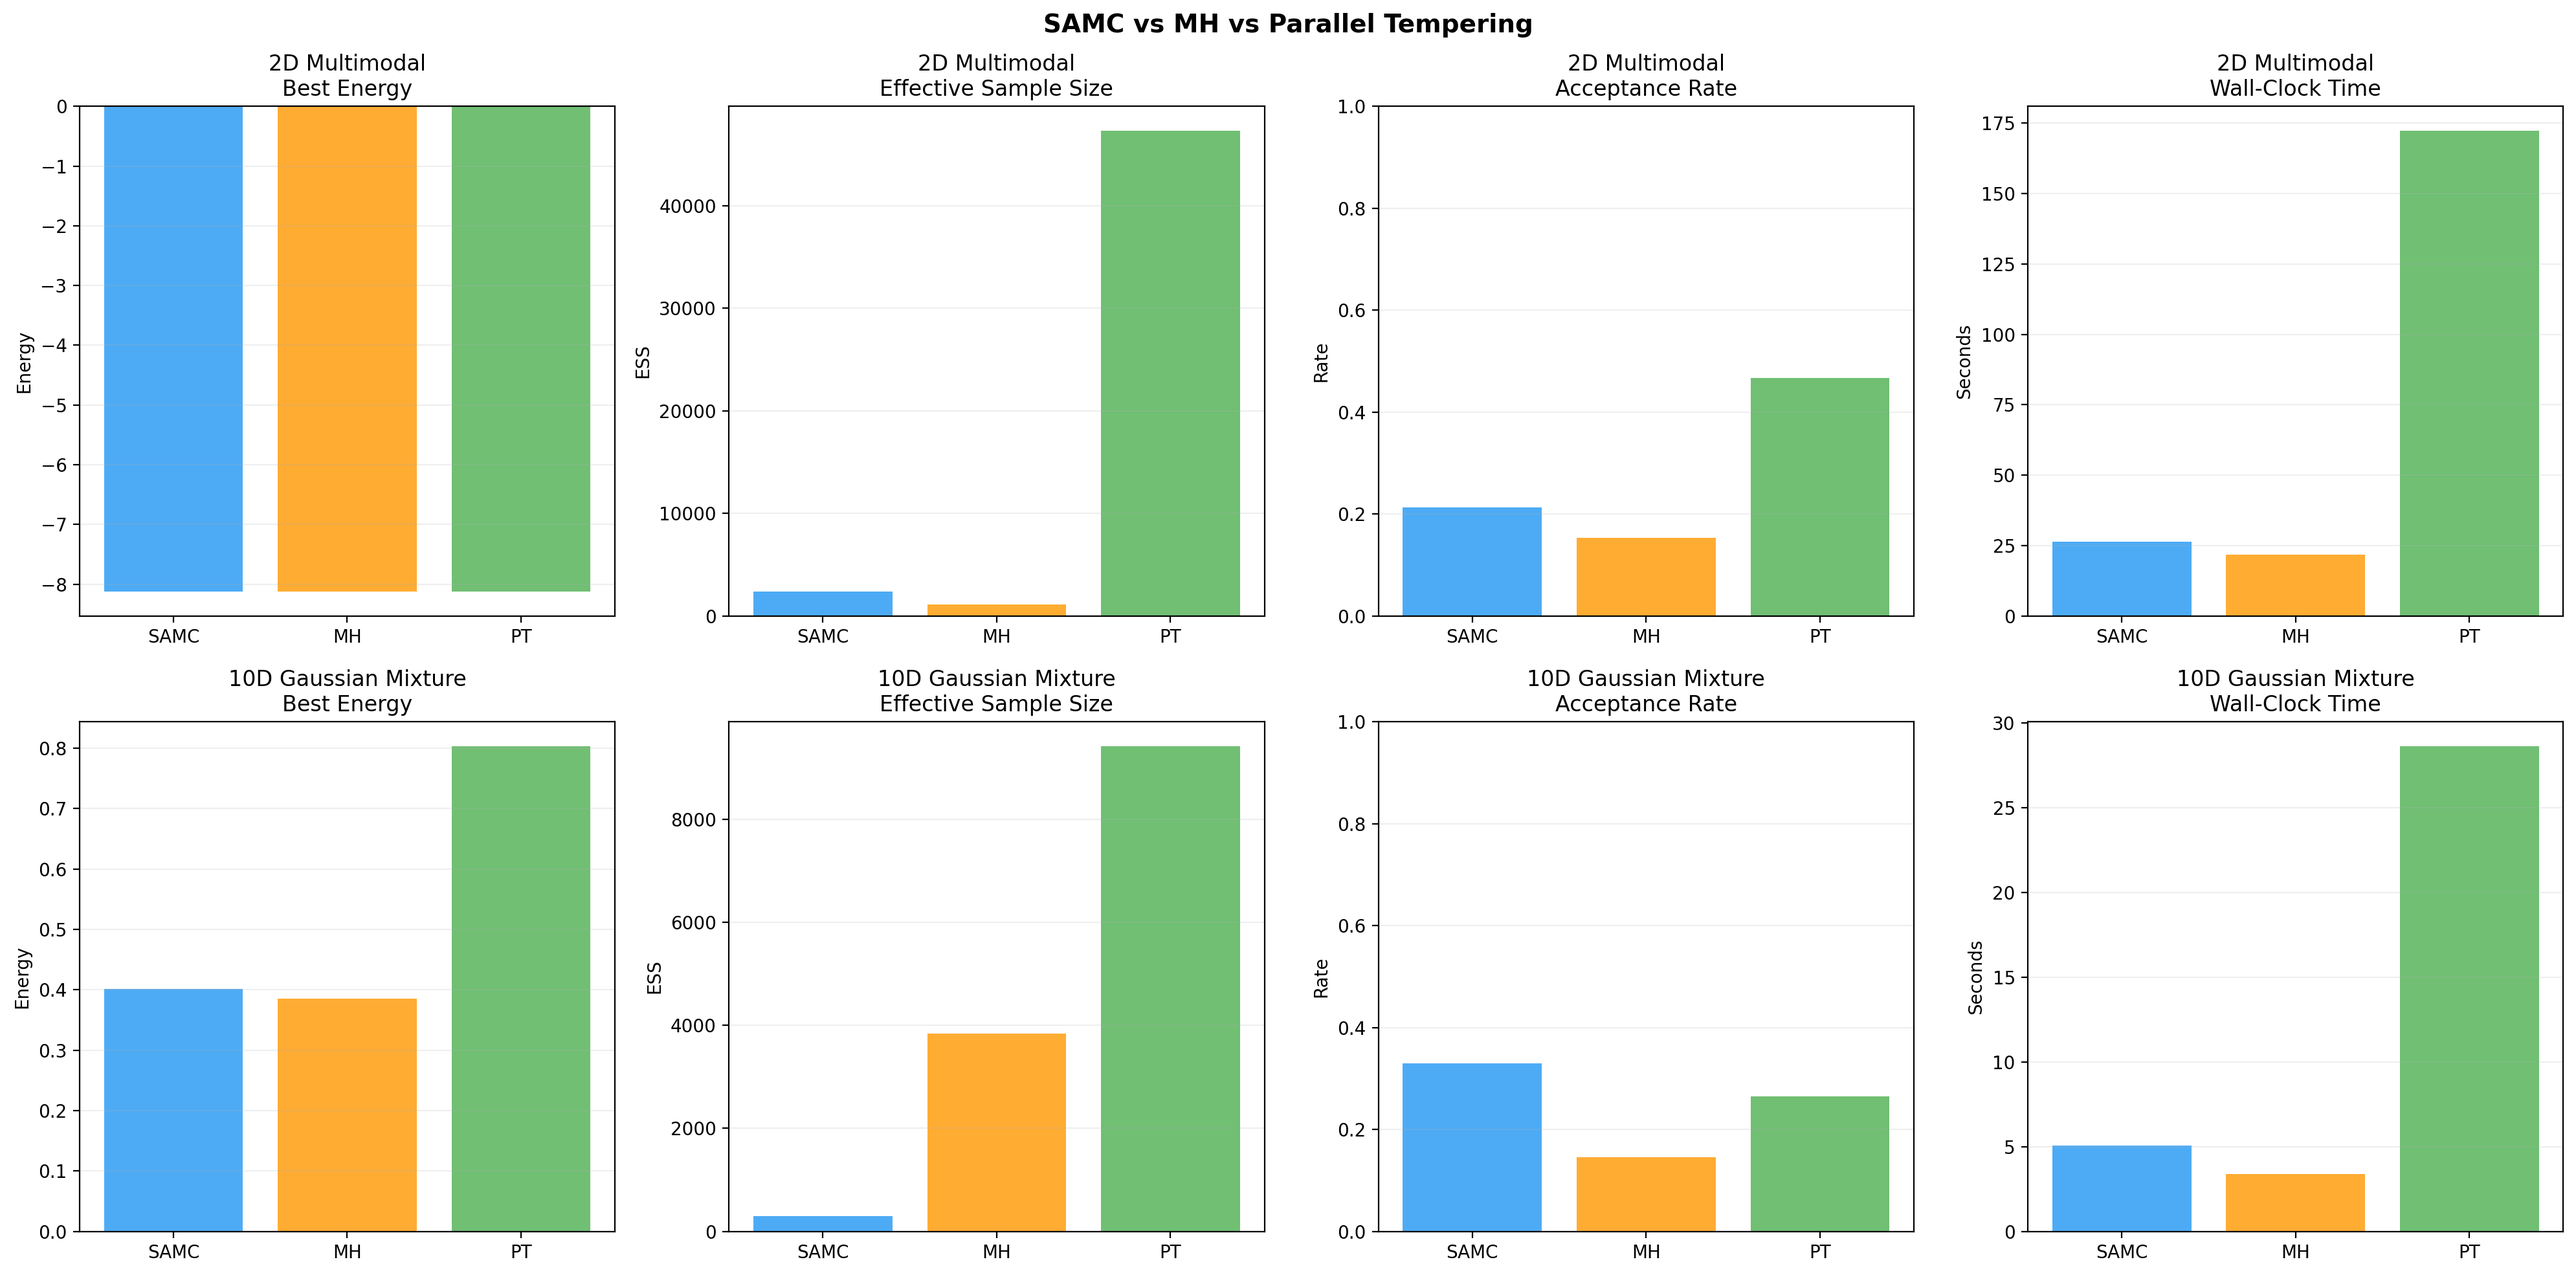
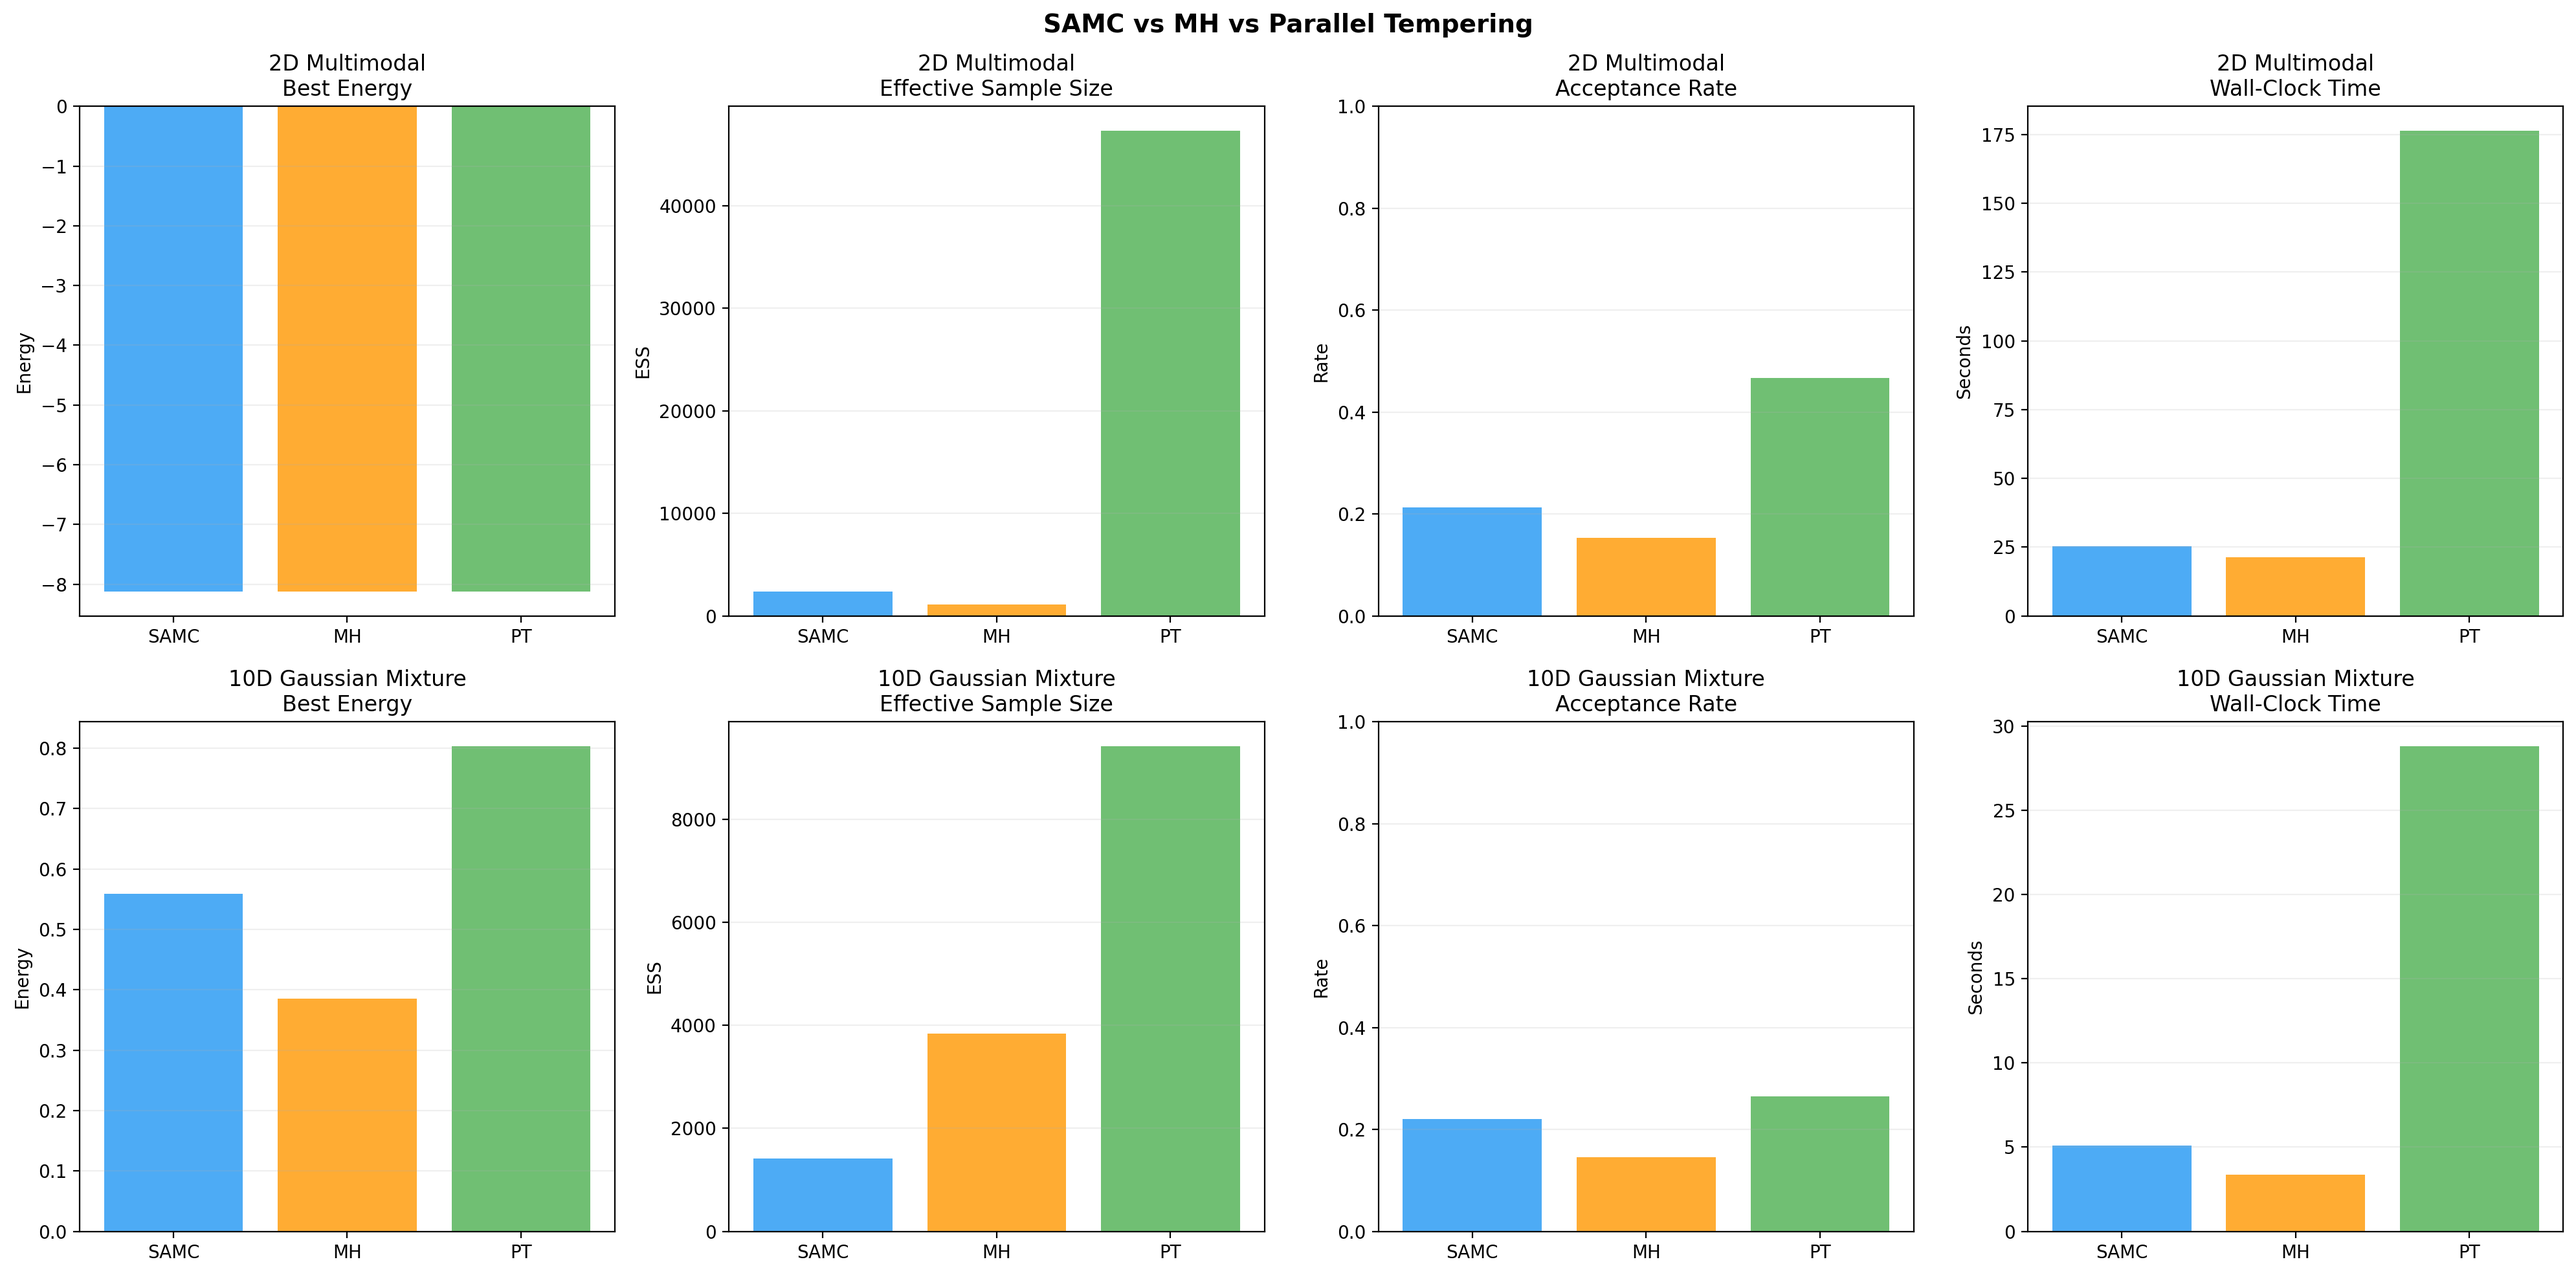
Tighten SAMC energy range for 10D benchmark (e_min=0, e_max=15)
Previous range [-5, 30] wasted bins on unreachable low-energy regions
and irrelevant high-energy tails. Tightened to [0, 15] improves
SAMC ESS from 293 to 1413 on 10D Gaussian mixture.

diff --git a/benchmarks/vs_mh_pt.py b/benchmarks/vs_mh_pt.py
@@ -628,8 +628,8 @@ def main():
         save_every=save_every,
         samc_kwargs={
             "n_partitions": 30,
-            "e_min": -5.0,
-            "e_max": 30.0,
+            "e_min": 0.0,
+            "e_max": 15.0,
             "proposal_std": proposal_std_10d,
             "gain": "ramp",
             "gain_kwargs": {

diff --git a/README.md b/README.md
@@ -117,13 +117,13 @@ SAMC vs Metropolis-Hastings vs Parallel Tempering on two problems. All methods u
 | 2D Multimodal | SAMC | -8.124 | 2399 | 0.213 | 24.7 |
 | 2D Multimodal | MH | -8.124 | 1128 | 0.154 | 20.7 |
 | 2D Multimodal | PT (8 replicas) | -8.124 | 47326 | 0.467 | 173.8 |
-| 10D Gaussian | SAMC | 0.401 | 293 | 0.330 | 5.1 |
+| 10D Gaussian | SAMC | 0.559 | 1413 | 0.221 | 5.1 |
 | 10D Gaussian | MH | 0.385 | 3834 | 0.145 | 3.4 |
-| 10D Gaussian | PT (8 replicas) | 0.804 | 9417 | 0.265 | 29.1 |
+| 10D Gaussian | PT (8 replicas) | 0.804 | 9417 | 0.265 | 28.8 |
 
 **Key takeaways:**
 - **2D multimodal:** All methods find the global minimum (~-8.12). SAMC achieves 2x the ESS of MH at similar cost. PT has highest ESS but 7x the wall-clock time (8 replicas).
-- **10D Gaussian mixture:** SAMC has the highest acceptance rate (0.33) and competitive best energy at minimal cost. PT is 6x slower.
+- **10D Gaussian mixture:** With properly tuned energy range, SAMC ESS (1413) is competitive at minimal cost. MH has higher ESS on this problem since the modes are well-separated and the energy landscape is smooth. PT is 6x slower.
 
 Run benchmarks yourself:
 ```bash
